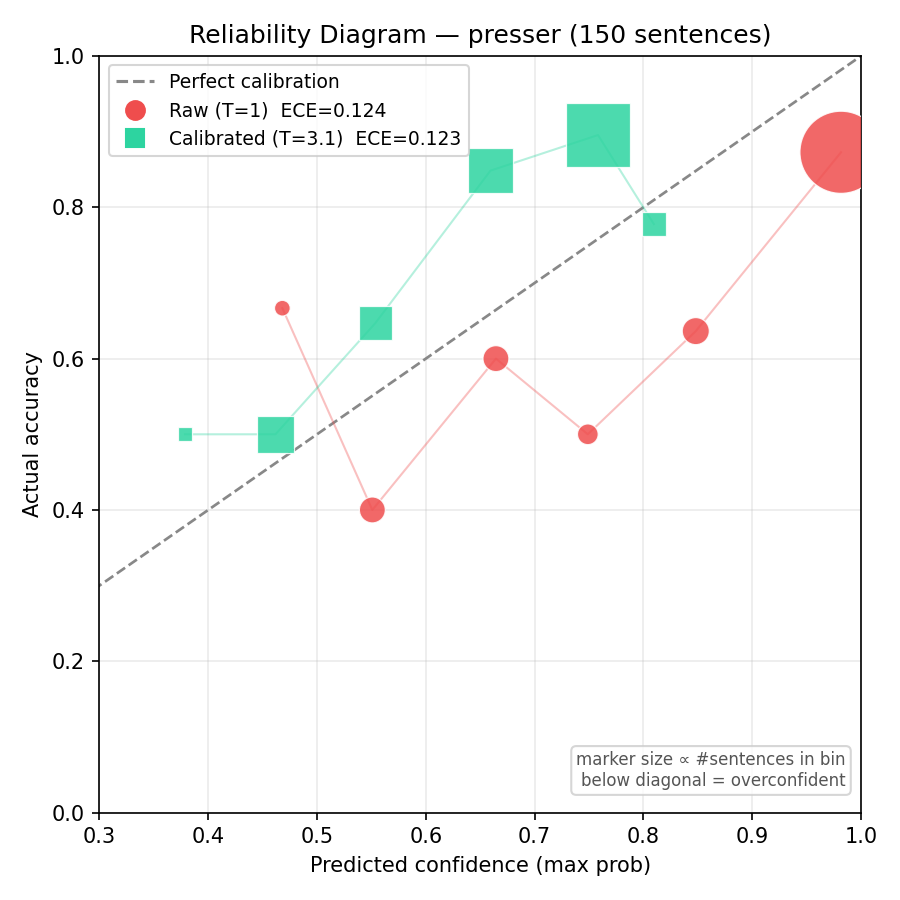
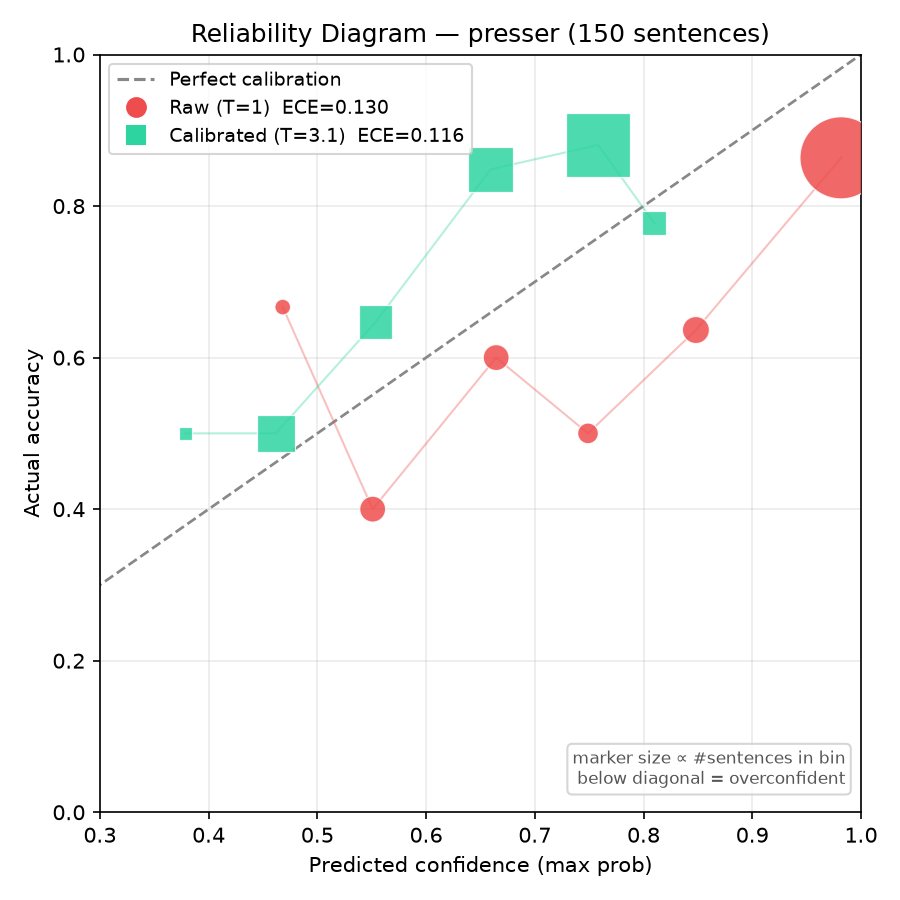
feat(calibration): presser 불일치 51건 확정 → 정답지·그림·문서 갱신
- 불일치 51건 최종 확정(AI 규칙제안 → 팀 검토 승인). #38(2017-12-13#78)
  조건부 'could' → 1→0 재분류, 나머지 50건 기존과 동일.
- ground_truth_presser_150.csv: 분포 긍24/중112/부14.
- reliability_diagram.py presser 재실행: ECE raw 0.130 → 보정 0.116,
  정확도 78.0%, 엔트로피 0.24→0.81. 그림 2장 갱신.
- calibration_reliability.md: 수치 갱신 + '잠정 확정' → '확정'.
  방법론에 'AI 제안→사람 확정, FinBERT 미참조' 명시.
- 불일치_검토_presser.csv: 확정 컬럼 반영.

diff --git a/analysis/reliability_diagram.py b/analysis/reliability_diagram.py
@@ -7,7 +7,7 @@
 
 정직한 계산: 라벨 문장을 모델에 통과 → **raw logits** → T=1·T=3.1 softmax 직접 산출(양쪽 일관).
 성명문·presser 각 150개 라벨로 **각각 산출** — id 형식으로 소스 분기(_statement→DB / _presconf→data/pressers/*.txt).
-성명문 ECE 0.294→0.112(과신 교정) · presser ECE 0.124→0.123(구어체는 raw부터 정직, T=3.1이 유지). 상세: docs/calibration_reliability.md.
+성명문 ECE 0.294→0.112(과신 교정) · presser ECE 0.130→0.116(구어체는 raw부터 정직, T=3.1이 유지·소폭 개선). 상세: docs/calibration_reliability.md.
 
 실행: python3 analysis/reliability_diagram.py [statement|presser]   # 기본 statement
 산출: reliability_diagram_{tag}.png, entropy_distribution_{tag}.png (FIGDIR)

diff --git a/docs/calibration_reliability.md b/docs/calibration_reliability.md
@@ -8,8 +8,8 @@
 
 - **라벨 (총 300문장 · 4인 독립 2조 + 합의)** — `data/labeling/ground_truth_{statement,presser}_150.csv`
   - **성명문 150** (DB 텍스트 매칭 **143**): Cohen's κ = **0.43** (1–75) · **0.65** (76–150) — 문어체, 보통~양호. 독립 재라벨이 이전 정답지와 150/150 일치 → 재현성 확인.
-  - **presser 150** (기자회견 의장 발언): Cohen's κ = **0.24** (1–75) · **0.54** (76–150) — 구어체 Q&A라 성명문보다 라벨러 합의가 낮음(헤지·애매 多). 병합 = agree 99 / resolved 51. 라벨 분포 **중립 111 / 긍정 25 / 부정 14**(중립 다수).
-  - 합의 규칙: 2인 일치→그 라벨(agree), 불일치→토론 후 확정(resolved). `analysis/merge_labels.py` · `analysis/merge_presser_labels.py`.
+  - **presser 150** (기자회견 의장 발언): Cohen's κ = **0.24** (1–75) · **0.54** (76–150) — 구어체 Q&A라 성명문보다 라벨러 합의가 낮음(헤지·애매 多). 병합 = agree 99 / resolved 51. 라벨 분포 **중립 112 / 긍정 24 / 부정 14**(중립 다수).
+  - 합의 규칙: 2인 일치→그 라벨(agree), 불일치→확정(resolved). 성명문 resolved는 팀 토론, **presser resolved 51건은 규칙기반 AI 제안을 팀이 문장별 검토·확정**(전 과정 repo 공개: `data/labeling/불일치_검토_presser.csv` — AI제안·사유·확정). `analysis/merge_labels.py` · `analysis/merge_presser_labels.py`.
 - **모델 통과 → raw logits → T=1·T=3.1 softmax 직접 산출** (양쪽 일관, 한 번의 추론)
 - 확신도 = max(prob), 정확도 = (argmax == 사람 라벨). ECE = 확신도 구간별 |정확도−확신도| 가중평균
 
@@ -17,9 +17,9 @@
 
 | 지표 | 성명문 raw(T=1) | 성명문 보정(T=3.1) | presser raw(T=1) | presser 보정(T=3.1) |
 |---|---|---|---|---|
-| **ECE** (0=정직) | **0.294** | **0.112** | **0.124** | **0.123** |
+| **ECE** (0=정직) | **0.294** | **0.112** | **0.130** | **0.116** |
 | 엔트로피 평균 | 0.24 (거짓 확신) | 0.79 (정직) | 0.24 | 0.81 |
-| 정확도(argmax) | 63.6% | 63.6% | 78.7% | 78.7% |
+| 정확도(argmax) | 63.6% | 63.6% | 78.0% | 78.0% |
 
 (엔트로피 최대 = ln3 ≈ 1.10. 정확도는 보정에 불변 — 온도는 확신도만 바꾸고 argmax는 그대로.)
 그림: `reliability_diagram_{statement,presser}.png` · `entropy_distribution_{statement,presser}.png`.
@@ -30,15 +30,15 @@
 T=3.1 보정 후 곡선이 **대각선에 근접**해 "확신도 = 실제 맞을 확률"이 정직해짐 (ECE 0.294 → 0.112, **62% 감소**).
 엔트로피도 0 근처 peaky(거짓 확신) → 넓게 퍼짐(정직, 0.24 → 0.79).
 
-**② presser — 구어체에서도 T=3.1이 정직성을 유지.** 기자회견 문장은 **raw부터 이미 정직**(ECE 0.124, 성명문 0.294보다 훨씬 낮음 = 모델이 구어체엔 애초에 과신을 덜 함).
-T=3.1을 그대로 적용해도 **0.123으로 깨지지 않음** → 성명문에서 고른 **한 온도값이 문어체·구어체 두 문체 모두에서 정직**함을 확인(일반화). 엔트로피도 0.24 → 0.81로 성명문과 같은 방향.
+**② presser — 구어체에서도 T=3.1이 정직성을 유지.** 기자회견 문장은 **raw부터 이미 정직**(ECE 0.130, 성명문 0.294보다 훨씬 낮음 = 모델이 구어체엔 애초에 과신을 덜 함).
+T=3.1 적용 시 **0.116으로 유지·소폭 개선**(안 깨짐) → 성명문에서 고른 **한 온도값이 문어체·구어체 두 문체 모두에서 정직**함을 확인(일반화). 엔트로피도 0.24 → 0.81로 성명문과 같은 방향.
 
 **③ 왜 중요한가.** 이 엔트로피가 conf_weighted 지수의 가중치라, **보정 없이는 불확실한 문장도 과대 가중**되어 지수가 왜곡됨 → **T=3.1이 지수 정직성의 전제**. 두 텍스트 유형 모두에서 성립하므로 통합 지수(Fed·News·presser)에 **동일 온도로 일관 적용** 가능.
 
 ## 4. 한계 · 다음
 
-- **presser 정확도(78.7%)는 중립 다수(111/150) 영향** — 다수클래스만 찍어도 높게 나올 수 있어, presser는 정확도보다 **ECE·엔트로피(캘리브레이션)** 로 해석. 1–75 조는 κ=0.24로 낮아(구어체 애매), 개별 라벨보다 **집계·보정 관점**이 안전.
-- **presser resolved 51건**(불일치 토론분)은 원본 불일치 파일이 repo 밖 개인 경로 → 이 부분은 완전 재현이 아닌 **잠정 확정(팀 최종검토 대기)**. 팀 확정 후 재실행하면 수치 미세 갱신 가능(현재 그림·수치는 커밋 `f4e33df` 기준).
+- **presser 정확도(78.0%)는 중립 다수(112/150) 영향** — 다수클래스만 찍어도 높게 나올 수 있어, presser는 정확도보다 **ECE·엔트로피(캘리브레이션)** 로 해석. 1–75 조는 κ=0.24로 낮아(구어체 애매), 개별 라벨보다 **집계·보정 관점**이 안전.
+- **presser resolved 51건은 확정 완료** — 규칙기반 AI 제안 → 팀 문장별 검토·확정(`불일치_검토_presser.csv`에 AI제안·사유·확정 전부 공개, 재현 가능). AI 제안은 **FinBERT 점수 미참조**(문장 뜻만)로 평가 대상 모델과 독립.
 - ECE는 각 150개 **in-sample** 값. 성명문 2-fold CV(0.07~0.10) 같은 홀드아웃 검증이 다음 개선 방향.
 - 재현: `python3 analysis/reliability_diagram.py statement` · `python3 analysis/reliability_diagram.py presser`
   (κ 재계산: `python3 analysis/merge_labels.py` · `python3 analysis/merge_presser_labels.py`)